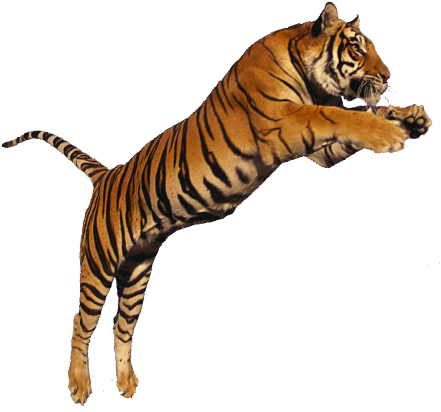
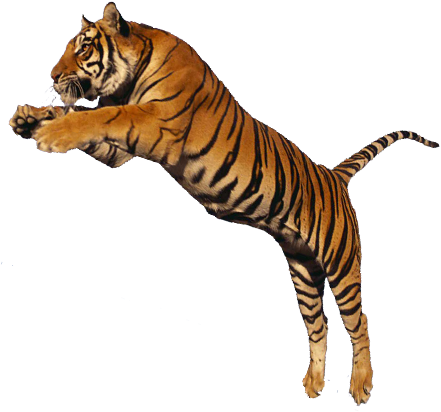
Tygrys dodany.

diff --git a/styles/style.css b/styles/style.css
@@ -271,13 +271,74 @@
             box-sizing: border-box;
     min-height: 100vh;
     width: 100%;
-    padding-top: 2.5em;
+    padding-top: 3.5em;
   }
   .main-section__wrapper .main-section__title {
     -webkit-box-sizing: border-box;
             box-sizing: border-box;
     width: 100%;
     padding: 1em 0 1em 1em;
+  }
+  .main-section__wrapper .description-card__wrapper,
+  .main-section__wrapper .description__card--hobby {
+    position: relative;
+    font-family: "Zilla Slab", serif;
+    -webkit-box-sizing: border-box;
+            box-sizing: border-box;
+    width: 100%;
+    display: -ms-grid;
+    display: grid;
+    -ms-grid-columns: (minmax(1em, 1fr))[12];
+        grid-template-columns: repeat(12, minmax(1em, 1fr));
+    -ms-grid-rows: (auto)[3];
+        grid-template-rows: repeat(3, auto);
+    row-gap: 1em;
+    -webkit-box-align: center;
+        -ms-flex-align: center;
+            align-items: center;
+  }
+  .main-section__wrapper .description-card__wrapper .description__header,
+  .main-section__wrapper .description__card--hobby .description__header {
+    -ms-grid-column: 2;
+    -ms-grid-column-span: 10;
+    grid-column: 2/12;
+    -ms-grid-row: 1;
+    -ms-grid-row-span: 1;
+    grid-row: 1/2;
+  }
+  .main-section__wrapper .description-card__wrapper .description__header .header__text,
+  .main-section__wrapper .description__card--hobby .description__header .header__text {
+    font-weight: bold;
+  }
+  .main-section__wrapper .description-card__wrapper .description__card,
+  .main-section__wrapper .description__card--hobby .description__card {
+    -ms-grid-column: 2;
+    -ms-grid-column-span: 6;
+    grid-column: 2/8;
+    -ms-grid-row: 2;
+    -ms-grid-row-span: 1;
+    grid-row: 2/3;
+  }
+  .main-section__wrapper .description-card__wrapper .description__tiger-image,
+  .main-section__wrapper .description__card--hobby .description__tiger-image {
+    -ms-grid-column: 8;
+    -ms-grid-column-span: 4;
+    grid-column: 8/12;
+    -ms-grid-row: 2;
+    -ms-grid-row-span: 1;
+    grid-row: 2/3;
+    width: 100%;
+    -webkit-filter: drop-shadow(10px 15px 3px #f0353c);
+            filter: drop-shadow(10px 15px 3px #f0353c);
+  }
+  .main-section__wrapper .description-card__wrapper .description__card--hobby,
+  .main-section__wrapper .description__card--hobby .description__card--hobby {
+    -ms-grid-column: 2;
+    -ms-grid-column-span: 10;
+    grid-column: 2/12;
+    -ms-grid-row: 3;
+    -ms-grid-row-span: 1;
+    grid-row: 3/4;
   }
 }
 

diff --git a/styles/_homepage.scss b/styles/_homepage.scss
@@ -82,17 +82,50 @@
       }
     }
   }
-  
+
   // SECTION O MNIE
-  .main-section__wrapper{
+  .main-section__wrapper {
     box-sizing: border-box;
     min-height: 100vh;
     width: 100%;
-    padding-top: 2.5em;
-    .main-section__title{
+    padding-top: 3.5em;
+    .main-section__title {
       box-sizing: border-box;
       width: 100%;
       padding: 1em 0 1em 1em;
+    }
+    .description-card__wrapper,
+    .description__card--hobby {
+      position: relative;
+      font-family: "Zilla Slab", serif;
+      box-sizing: border-box;
+      width: 100%;
+      display: grid;
+      grid-template-columns: repeat(12, minmax(1em, 1fr));
+      grid-template-rows: repeat(3, auto);
+      row-gap: 1em;
+      align-items: center;
+      .description__header {
+        grid-column: 2/12;
+        grid-row: 1/2;
+        .header__text {
+          font-weight: bold;
+        }
+      }
+      .description__card {
+        grid-column: 2/8;
+        grid-row: 2/3;
+      }
+      .description__tiger-image {
+        grid-column: 8/12;
+        grid-row: 2/3;
+        width: 100%;
+        filter: drop-shadow(10px 15px 3px $lighPinkMainColor);
+      }
+      .description__card--hobby {
+        grid-column: 2/12;
+        grid-row: 3/4;
+      }
     }
   }
 }
@@ -111,7 +144,7 @@
   }
 }
 
-// Medium devices (tablets, less than 992px)
+// Laptops up to 1920px width
 @media (min-width: 1024px) and (max-width: 1920px) {
   .portrait__photo-bg {
     position: relative;
@@ -173,19 +206,19 @@
       align-self: center;
       box-shadow: 0px -10px 20px rgb(177, 177, 177);
     }
-    .portrait__photo{
-      position:absolute;
+    .portrait__photo {
+      position: absolute;
       top: 50%;
       grid-column: 3/4;
       width: 50%;
-      .portrait__photo-image{
+      .portrait__photo-image {
         position: relative;
         left: 45%;
         width: 100%;
       }
     }
   }
-  .home-text__wrapper{
+  .home-text__wrapper {
     position: absolute;
     top: 0;
     left: 0;

diff --git a/index.html b/index.html
@@ -32,6 +32,12 @@
       href="https://fonts.googleapis.com/css2?family=Bevan&display=swap"
       rel="stylesheet"
     />
+    <link rel="preconnect" href="https://fonts.googleapis.com" />
+    <link rel="preconnect" href="https://fonts.gstatic.com" crossorigin />
+    <link
+      href="https://fonts.googleapis.com/css2?family=Zilla+Slab:wght@300&display=swap"
+      rel="stylesheet"
+    />
     <link rel="stylesheet" href="./styles/style.css" />
   </head>
   <body>
@@ -112,9 +118,9 @@
             <h2 class="title-main">O mnie</h2>
           </header>
         </div>
-        <div class="about-card__wrapper">
-          <header class="header__o-mnie">
-            <p>Piotr Nowak Frontend Developer</p>
+        <div  class="description-card__wrapper">
+          <header class="description__header">
+            <p class="header__text">Szampi - Frontend Developer</p>
           </header>
           <div class="description__card">
             <p class="description__text">
@@ -124,7 +130,8 @@
               exercitationem illo ad magni commodi vero?
             </p>
           </div>
-          <div class="description__card">
+          <img class="description__tiger-image" src="./assets/tiger.png" alt="tiger photo">
+          <div class="description__card--hobby">
             <h4 class="description__header--small">Hobby:</h4>
             <div class="hobby__list">
               <img

diff --git a/styles/style.scss b/styles/style.scss
@@ -1,6 +1,7 @@
 @import "./variables";
 @import "./navigation";
 @import "./homepage";
+// font-family: 'Zilla Slab', serif;
 
 *{
   margin: 0;
